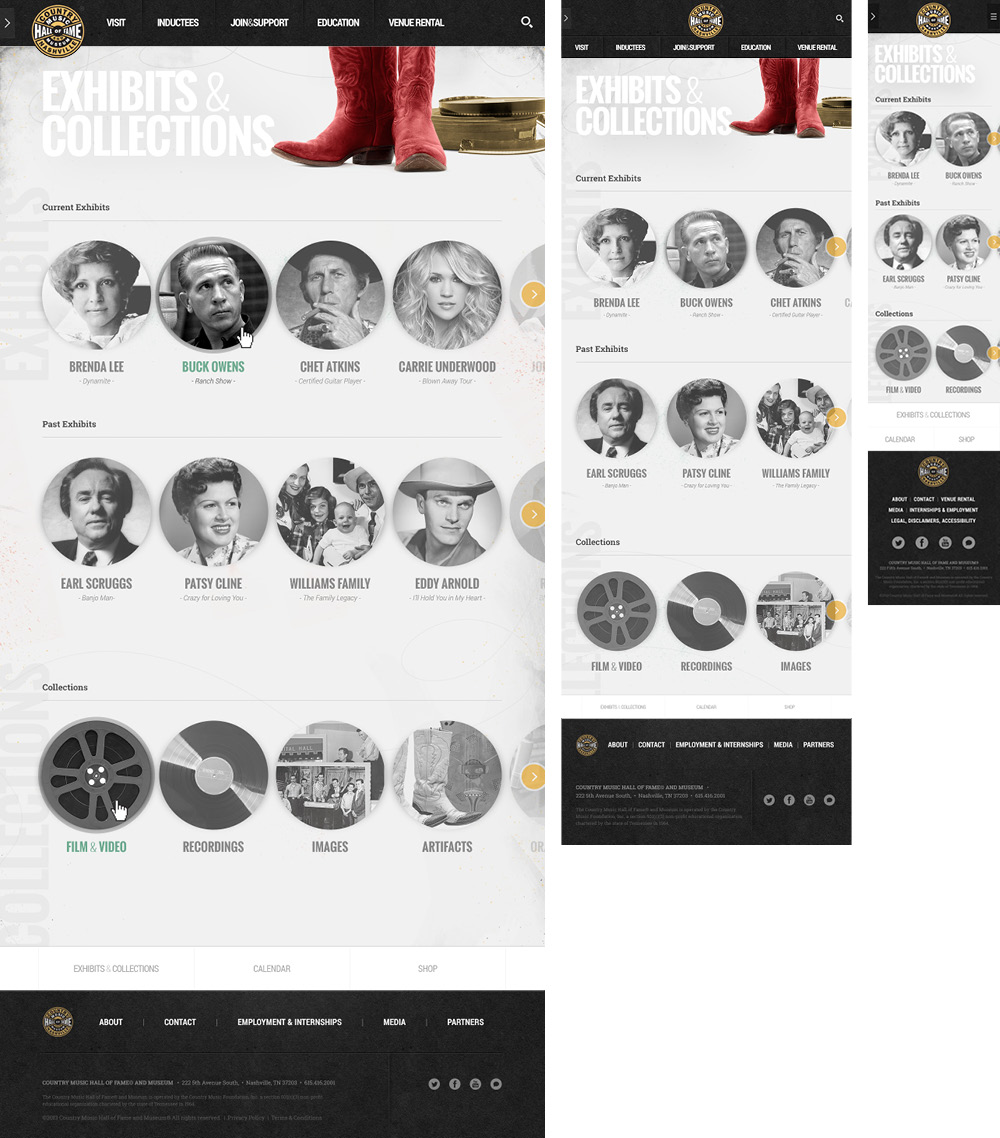
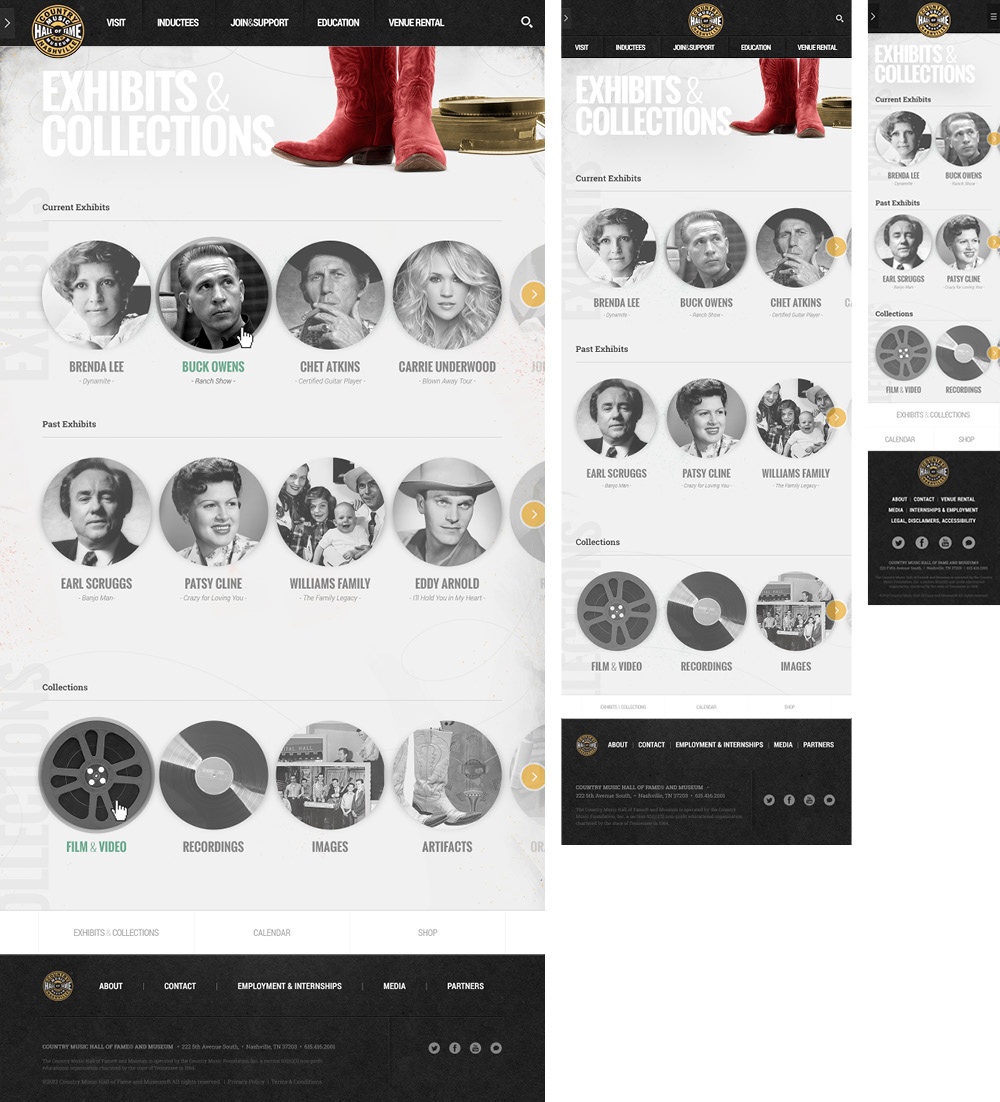
Continuing project page - CMHF
Including project descriptions and fine tuning styling.

diff --git a/css/style.css b/css/style.css
@@ -234,7 +234,8 @@ p {
   max-width: 46em; }
 
 .img-title {
-  padding: 3em 0 1em 0; }
+  padding: 3em 0 1em 0;
+  font-size: 1.75em; }
 
 .underline {
   border-bottom: 1px solid silver;
@@ -261,6 +262,10 @@ p {
   font-weight: 300;
   padding: 0 0 1.5em 0;
   font-size: 1.3em; }
+
+.long.caption {
+  text-align: left;
+  margin: 1em auto 0; }
 
 .caption {
   text-align: center;
@@ -1003,6 +1008,9 @@ iframe {
   .subtitle-title, .subtitle {
     font-size: 1.3em; }
 
+  .long.caption {
+    margin: 1em auto 1.2em; }
+
   .js-ready #nav {
     height: 30em;
     width: 70%;
@@ -1228,12 +1236,15 @@ iframe {
   .img-title {
     padding: 1.25em 0 0.6em 0; }
 
+  h3.img-title {
+    font-size: 1.4em; }
+
   .subtitle-title {
     padding: 0 0 0.75em 0; }
 
   .subtitle {
     padding: 1.5em 0 0.75em 0; } }
-@media only screen and (min-width: 320px) and (max-width: 780px), only screen and (-webkit-min-device-pixel-ratio: 2) and (min-width: 320px) and (max-width: 780px), only screen and (-moz-min-device-pixel-ratio: 2) and (min-width: 320px) and (max-width: 780px), only screen and (min--moz-device-pixel-ratio: 2) and (min-width: 320px) and (max-width: 780px), only screen and (-o-min-device-pixel-ratio: 2 / 1) and (min-width: 320px) and (max-width: 780px), only screen and (min-device-pixel-ratio: 2) and (min-width: 320px) and (max-width: 780px), only screen and (min-resolution: 192dpi) and (min-width: 320px) and (max-width: 780px), only screen and (min-resolution: 2dppx) and (min-width: 320px) and (max-width: 780px) {
+@media only screen and (min-width: 320px) and (max-width: 779px), only screen and (-webkit-min-device-pixel-ratio: 2) and (min-width: 320px) and (max-width: 779px), only screen and (-moz-min-device-pixel-ratio: 2) and (min-width: 320px) and (max-width: 779px), only screen and (min--moz-device-pixel-ratio: 2) and (min-width: 320px) and (max-width: 779px), only screen and (-o-min-device-pixel-ratio: 2 / 1) and (min-width: 320px) and (max-width: 779px), only screen and (min-device-pixel-ratio: 2) and (min-width: 320px) and (max-width: 779px), only screen and (min-resolution: 192dpi) and (min-width: 320px) and (max-width: 779px), only screen and (min-resolution: 2dppx) and (min-width: 320px) and (max-width: 779px) {
   .img-title, .subtitle, .subtitle-title {
     text-align: center; } }
 @media only screen and (min-width: 480px) and (max-width: 970px), only screen and (-webkit-min-device-pixel-ratio: 2) and (min-width: 780px) and (max-width: 970px), only screen and (-moz-min-device-pixel-ratio: 2) and (min-width: 780px) and (max-width: 970px), only screen and (min--moz-device-pixel-ratio: 2) and (min-width: 780px) and (max-width: 970px), only screen and (-o-min-device-pixel-ratio: 2 / 1) and (min-width: 780px) and (max-width: 970px), only screen and (min-device-pixel-ratio: 2) and (min-width: 780px) and (max-width: 970px), only screen and (min-resolution: 192dpi) and (min-width: 780px) and (max-width: 970px), only screen and (min-resolution: 2dppx) and (min-width: 780px) and (max-width: 970px) {
@@ -1253,15 +1264,25 @@ iframe {
   .img-title {
     padding: 1.25em 0 0.6em 0; }
 
+  h2.img-title {
+    font-size: 2.5em; }
+
+  h3.img-title {
+    font-size: 1.6em; }
+
   .subtitle-title {
     padding: 0 0 0.75em 0; }
 
   .subtitle {
     padding: 1.5em 0 0.75em 0; } }
 @media only screen and (min-width: 971px), only screen and (-webkit-min-device-pixel-ratio: 2) and (min-width: 971px), only screen and (-moz-min-device-pixel-ratio: 2) and (min-width: 971px), only screen and (min--moz-device-pixel-ratio: 2) and (min-width: 971px), only screen and (-o-min-device-pixel-ratio: 2 / 1) and (min-width: 971px), only screen and (min-device-pixel-ratio: 2) and (min-width: 971px), only screen and (min-resolution: 192dpi) and (min-width: 971px), only screen and (min-resolution: 2dppx) and (min-width: 971px) {
-  .img-title {
-    padding: 1.5em 0 0.6em 0;
-    font-size: 3.5em; }
+  h2.img-title {
+    padding: 1em 0 0.6em 0;
+    font-size: 3.5em;
+    letter-spacing: -0.05em; }
+
+  .subtitle, .subtitle-title {
+    font-size: 1.75em; }
 
   .section-div {
     margin-top: 2.5em; } }

diff --git a/scss/_mediaqueries.scss b/scss/_mediaqueries.scss
@@ -216,6 +216,10 @@ only screen and (                min-resolution: 2dppx)  and (min-width: 320px) 
     font-size:1.3em;
   }
 
+  .long.caption{
+    margin:1em auto 1.2em;
+  }
+
   @import 'js';
 
     .column-8, .half{
@@ -382,30 +386,38 @@ only screen and (                min-resolution: 2dppx)  and (min-width: 320px) 
   .section-div {
     margin-top: 1.3em;
   }
+
   .img-title {
     padding: 1.25em 0 0.6em 0;
   }
+
+  h3.img-title{
+    font-size:1.4em;
+  }
+
   .subtitle-title{
     padding: 0 0 0.75em 0;
   }
+
   .subtitle{
     padding: 1.5em 0 0.75em 0;
   }
 
 }
 
-@media only screen and (min-width: 320px) and (max-width:780px),
-only screen and (-webkit-min-device-pixel-ratio: 2)    and (min-width: 320px) and (max-width:780px),
-only screen and (   -moz-min-device-pixel-ratio: 2)      and (min-width: 320px) and (max-width:780px),
-only screen and (   min--moz-device-pixel-ratio: 2)      and (min-width: 320px) and (max-width:780px),
-only screen and (     -o-min-device-pixel-ratio: 2/1)    and (min-width: 320px) and (max-width:780px),
-only screen and (        min-device-pixel-ratio: 2)      and (min-width: 320px) and (max-width:780px),
-only screen and (                min-resolution: 192dpi) and (min-width: 320px) and (max-width:780px),
-only screen and (                min-resolution: 2dppx)  and (min-width: 320px) and (max-width:780px) {
+@media only screen and (min-width: 320px) and (max-width:779px),
+only screen and (-webkit-min-device-pixel-ratio: 2)    and (min-width: 320px) and (max-width:779px),
+only screen and (   -moz-min-device-pixel-ratio: 2)      and (min-width: 320px) and (max-width:779px),
+only screen and (   min--moz-device-pixel-ratio: 2)      and (min-width: 320px) and (max-width:779px),
+only screen and (     -o-min-device-pixel-ratio: 2/1)    and (min-width: 320px) and (max-width:779px),
+only screen and (        min-device-pixel-ratio: 2)      and (min-width: 320px) and (max-width:779px),
+only screen and (                min-resolution: 192dpi) and (min-width: 320px) and (max-width:779px),
+only screen and (                min-resolution: 2dppx)  and (min-width: 320px) and (max-width:779px) {
 
   .img-title, .subtitle, .subtitle-title{
     text-align:center;
   }
+
 }
 
 @media only screen and (min-width: 480px) and (max-width:970px),
@@ -433,6 +445,12 @@ only screen and (                min-resolution: 2dppx)  and (min-width: 780px) 
   .img-title {
     padding: 1.25em 0 0.6em 0;
   }
+  h2.img-title{
+    font-size:2.5em;
+  }
+  h3.img-title{
+    font-size:1.6em;
+  }
   .subtitle-title{
     padding: 0 0 0.75em 0;
   }
@@ -451,10 +469,15 @@ only screen and (        min-device-pixel-ratio: 2)      and (min-width: 971px),
 only screen and (                min-resolution: 192dpi) and (min-width: 971px),
 only screen and (                min-resolution: 2dppx)  and (min-width: 971px) {
 
-.img-title {
-    padding: 1.5em 0 0.6em 0;
+h2.img-title {
+    padding: 1em 0 0.6em 0;
     font-size:3.5em;
+    letter-spacing:-0.05em;
   }
+
+.subtitle, .subtitle-title{
+  font-size:1.75em;
+}
 
 .section-div{
   margin-top: 2.5em;

diff --git a/scss/_color-type.scss b/scss/_color-type.scss
@@ -76,6 +76,7 @@ p{
 
 .img-title{
 	padding:3em 0 1em 0;
+	font-size:1.75em;
 }
 
 .underline{
@@ -107,6 +108,11 @@ p{
 	font-weight:300;
 	padding:0 0 1.5em 0;
 	font-size:1.3em;
+}
+
+.long.caption{
+	text-align: left;
+	margin:1em auto 0;
 }
 
 .caption{

diff --git a/cmhf.php b/cmhf.php
@@ -20,10 +20,10 @@
 	        			<h3 class="title">Country Music Hall of Fame</h3>
 
 	        			<p>
-	        				Responsive design concept. This project was mostly self initiated but stemmed from a project at the Tombras Group. I wanted this to be more of a 'process' portfolio piece. In order to not make this a billion miles of scrolling, I'll follow up with a blog post (coming soon) to explain my process and thinking more in depth.
+	        				Responsive design concept. This project was mostly self initiated but stemmed from a pitch to the client. I wanted this to be more of a 'process' portfolio piece. In order to not make this miles of scrolling, I'll follow up with a blog post (coming soon) to explain my process and thinking more in depth.
         				</p>
         				<p>
-							The roles I tried to touch on throughout this process were design, architecture, and interaction design. 
+							The roles I focused on were design, architecture, and interaction design. 
 	        			</p>
 	        			<p>
 	        				<strong>Client:</strong> Country Music Hall of Fame and Museum
@@ -44,8 +44,8 @@
 			        	<!-- intro -->
 
 	        			<img alt="" src="assets/work/cmhf/CMHF-1.jpg" />
-	        			<p class="caption">
-	        				Curabitur vulputate, ligula lacinia scelerisque tempor, lacus lacus ornare ante, ac egestas est urna sit amet arcu. Class aptent taciti sociosqu ad litora torquent per conubia nostra, per inceptos himenaeos. Sed molestie augue sit amet leo consequat posuere. Vestibulum ante ipsum primis in faucibus orci luctus et ultrices posuere.
+	        			<p class="long caption">
+	        				Country Music Hall of Fame and Museum (Preserve) owns two other entities: Historic RCA Studio B (Create) &amp; Hatch Show Print (Promote). The three titles (Create, Preserve, Promote) serve two purposes. They describe the role of each entity, yet unify them as a whole.
 			        	</p>
 
 			        <!-- LAYOUTS-->
@@ -53,6 +53,9 @@
 			        	<h2 class="underline img-title">Layouts</h2>
 			        	<h3 class="subtitle-title">Home Page</h3>
 			        	<img class="" alt="" src="assets/work/cmhf/CMHF-2.jpg" />
+			        	<p class="long caption">
+	        				The homepage features a video introducing Country Music (the dominant circle at the top of the page) and interactive snippets about current exhibits. Below shows the content choreography for different screen sizes.
+			        	</p>
 
 						<!-- image 3 -->
 						
@@ -71,6 +74,9 @@
 
 			        	<h3 class="section-div subtitle">Tertiary - Specific Exhibit</h3>
 			        	<img class="" alt="" src="assets/work/cmhf/CMHF-6.jpg" />
+			        	<p class="long caption">
+	        				The goal was to create an interactive experience that matched the quality of the museum exhibits. These pages would highlight artifacts with interactive hotspots that utilize CMHF's vast library of videos, images, and audio.
+			        	</p>
 
 			        	<!-- image 7 -->
 
@@ -89,6 +95,9 @@
 
 			        	<h3 class="section-div subtitle">Subpage - Inductees</h3>
 			        	<img class="" alt="" src="assets/work/cmhf/CMHF-10.jpg" />
+			        	<p class="long caption">
+	        				Again, the goal was to create a visual and interactive way to explore the content. A more utilitarian (list) approach was also included to find Hall of Fame inductees quickly.
+			        	</p>
 
 			        	<!-- image 11 -->
 
